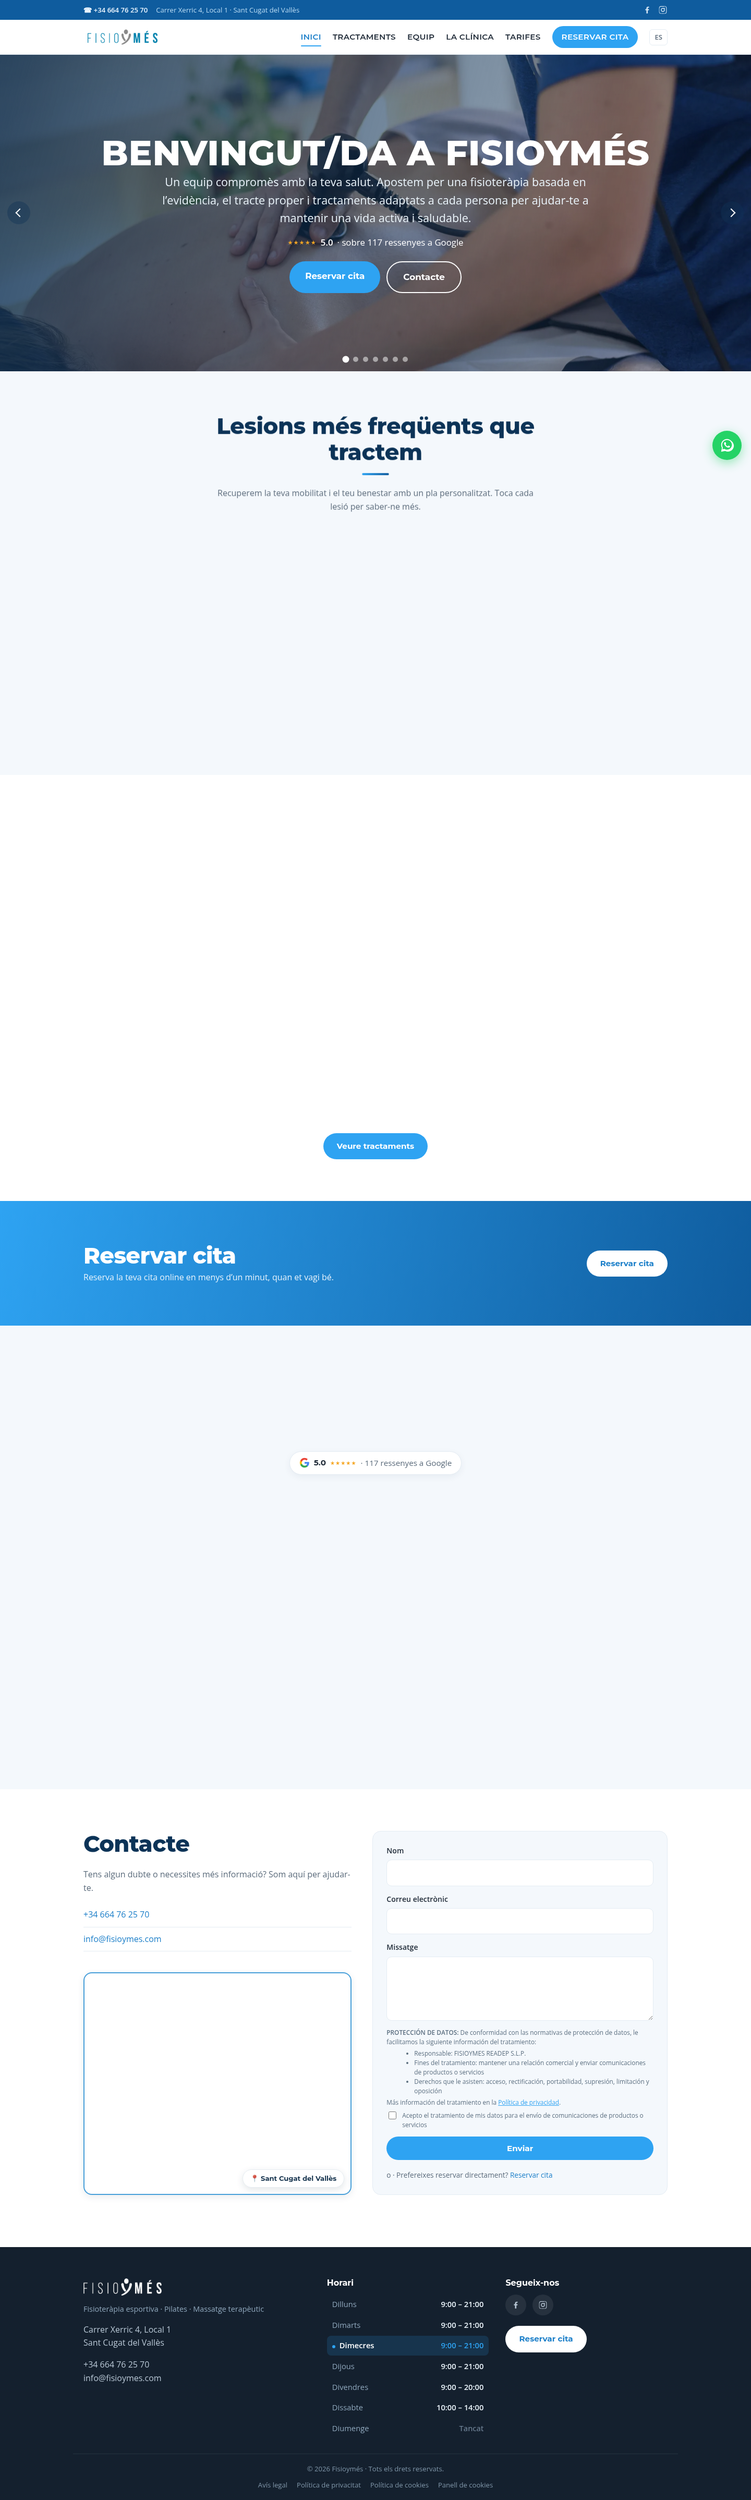
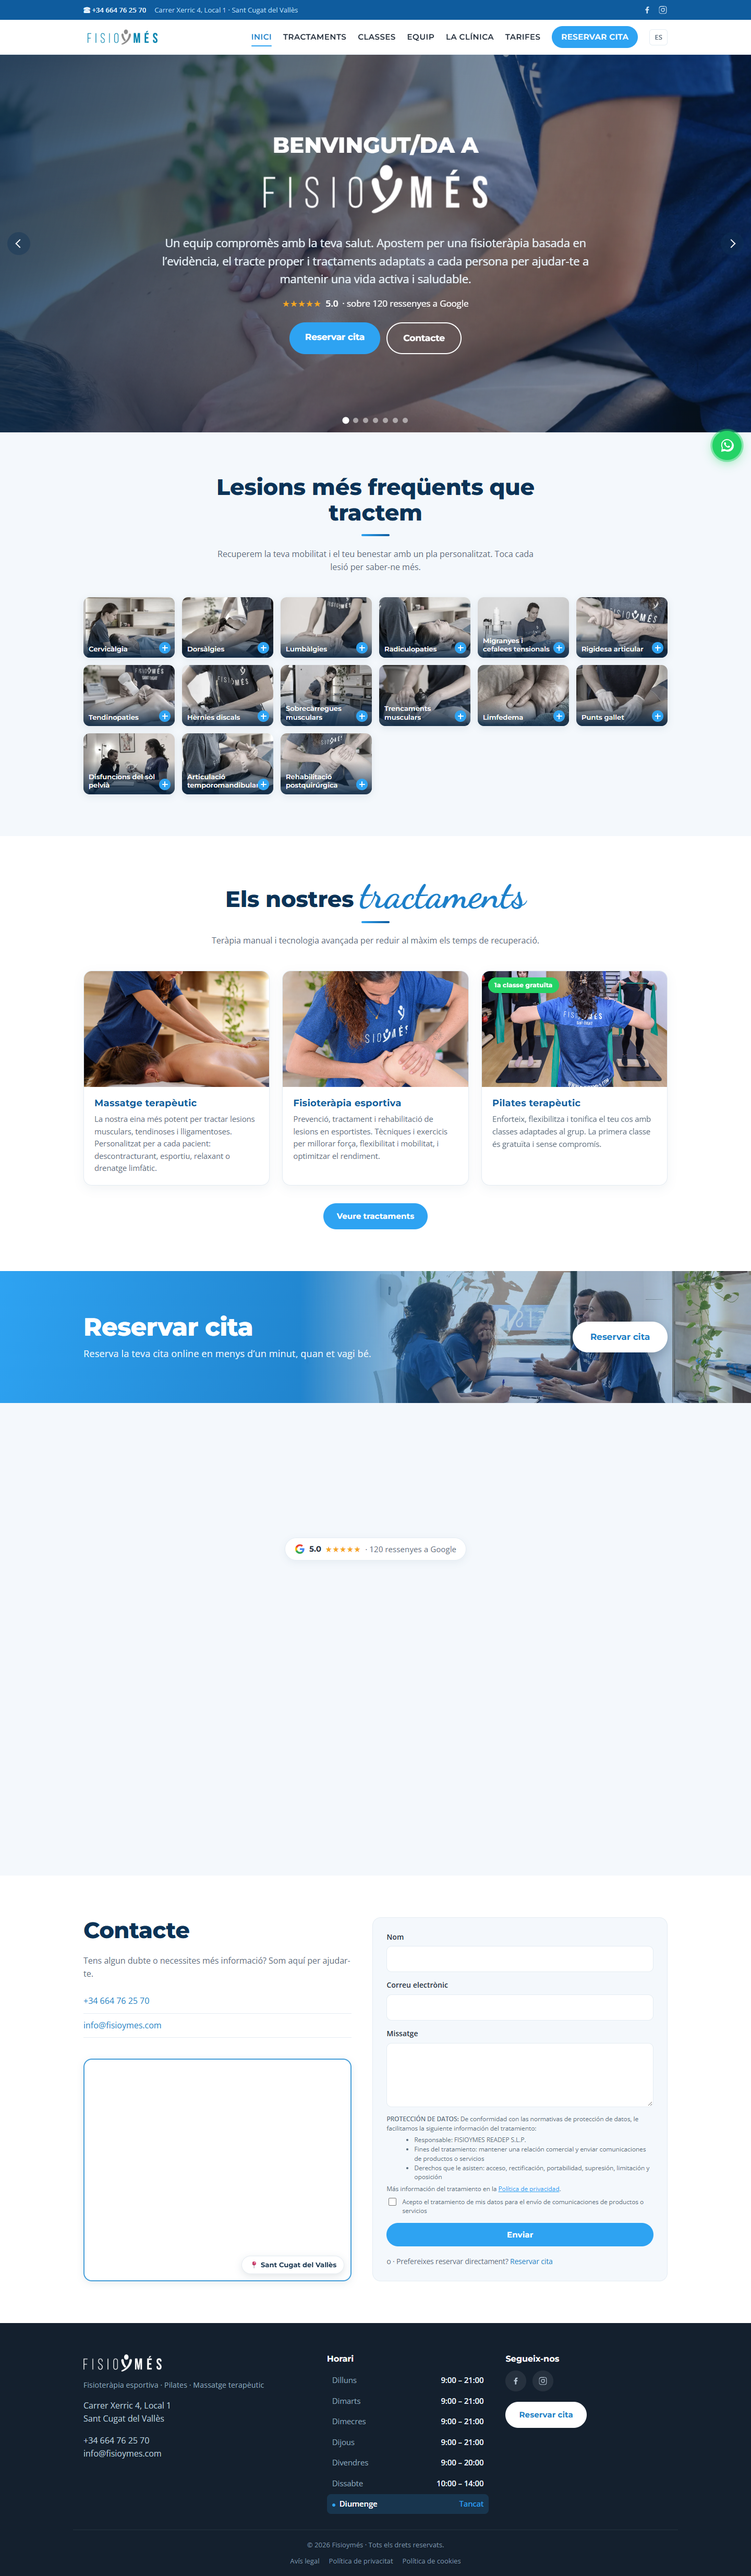
fix: la captura del cliente salia en blanco — se recorre antes de disparar
El marco recorrido funcionaba; lo que recorria estaba vacio. fisioymes.com
mantiene su contenido a opacity 0 hasta que el observador de scroll lo despierta,
y una captura a pagina completa de una sola pasada no scrollea: se guardo con el
grueso de la pagina en blanco, y eso llevaba ensenandose en el portfolio como
UNICO cliente real.

scripts/captura-completa.mjs recorre la pagina entera antes de disparar, oculta
los paneles de consentimiento por CSS (sin pulsar aceptar ni rechazar en nombre
del cliente) y devuelve el scroll que esos paneles bloquean. Busca ademas el
Chromium del sistema: la ruta por defecto era /usr/bin/chromium y en Windows no
arrancaba nada.

Captura regenerada (4939 px de alto, antes 4794) y `alto` actualizado, que es de
donde sale el recorrido del scrub.

diff --git a/src/config/site.ts b/src/config/site.ts
@@ -44,7 +44,7 @@ const fisioymes: Destacado = {
     'Vinieron con una queja concreta: en el móvil su web era todo letra y scroll sin fin. La rehíce entera en catalán y castellano, con las lesiones en rejilla y los tratamientos en fichas — y sin tocarles el sistema de reservas que ya usaban.',
   slug: 'fisioymes',
   url: 'https://charcoles-hub.github.io/fisioymes/',
-  alto: 4794,
+  alto: 4939,
 };
 
 const demo = (slug: string, nombre: string, rubro: string, descripcion: string): Proyecto => ({
